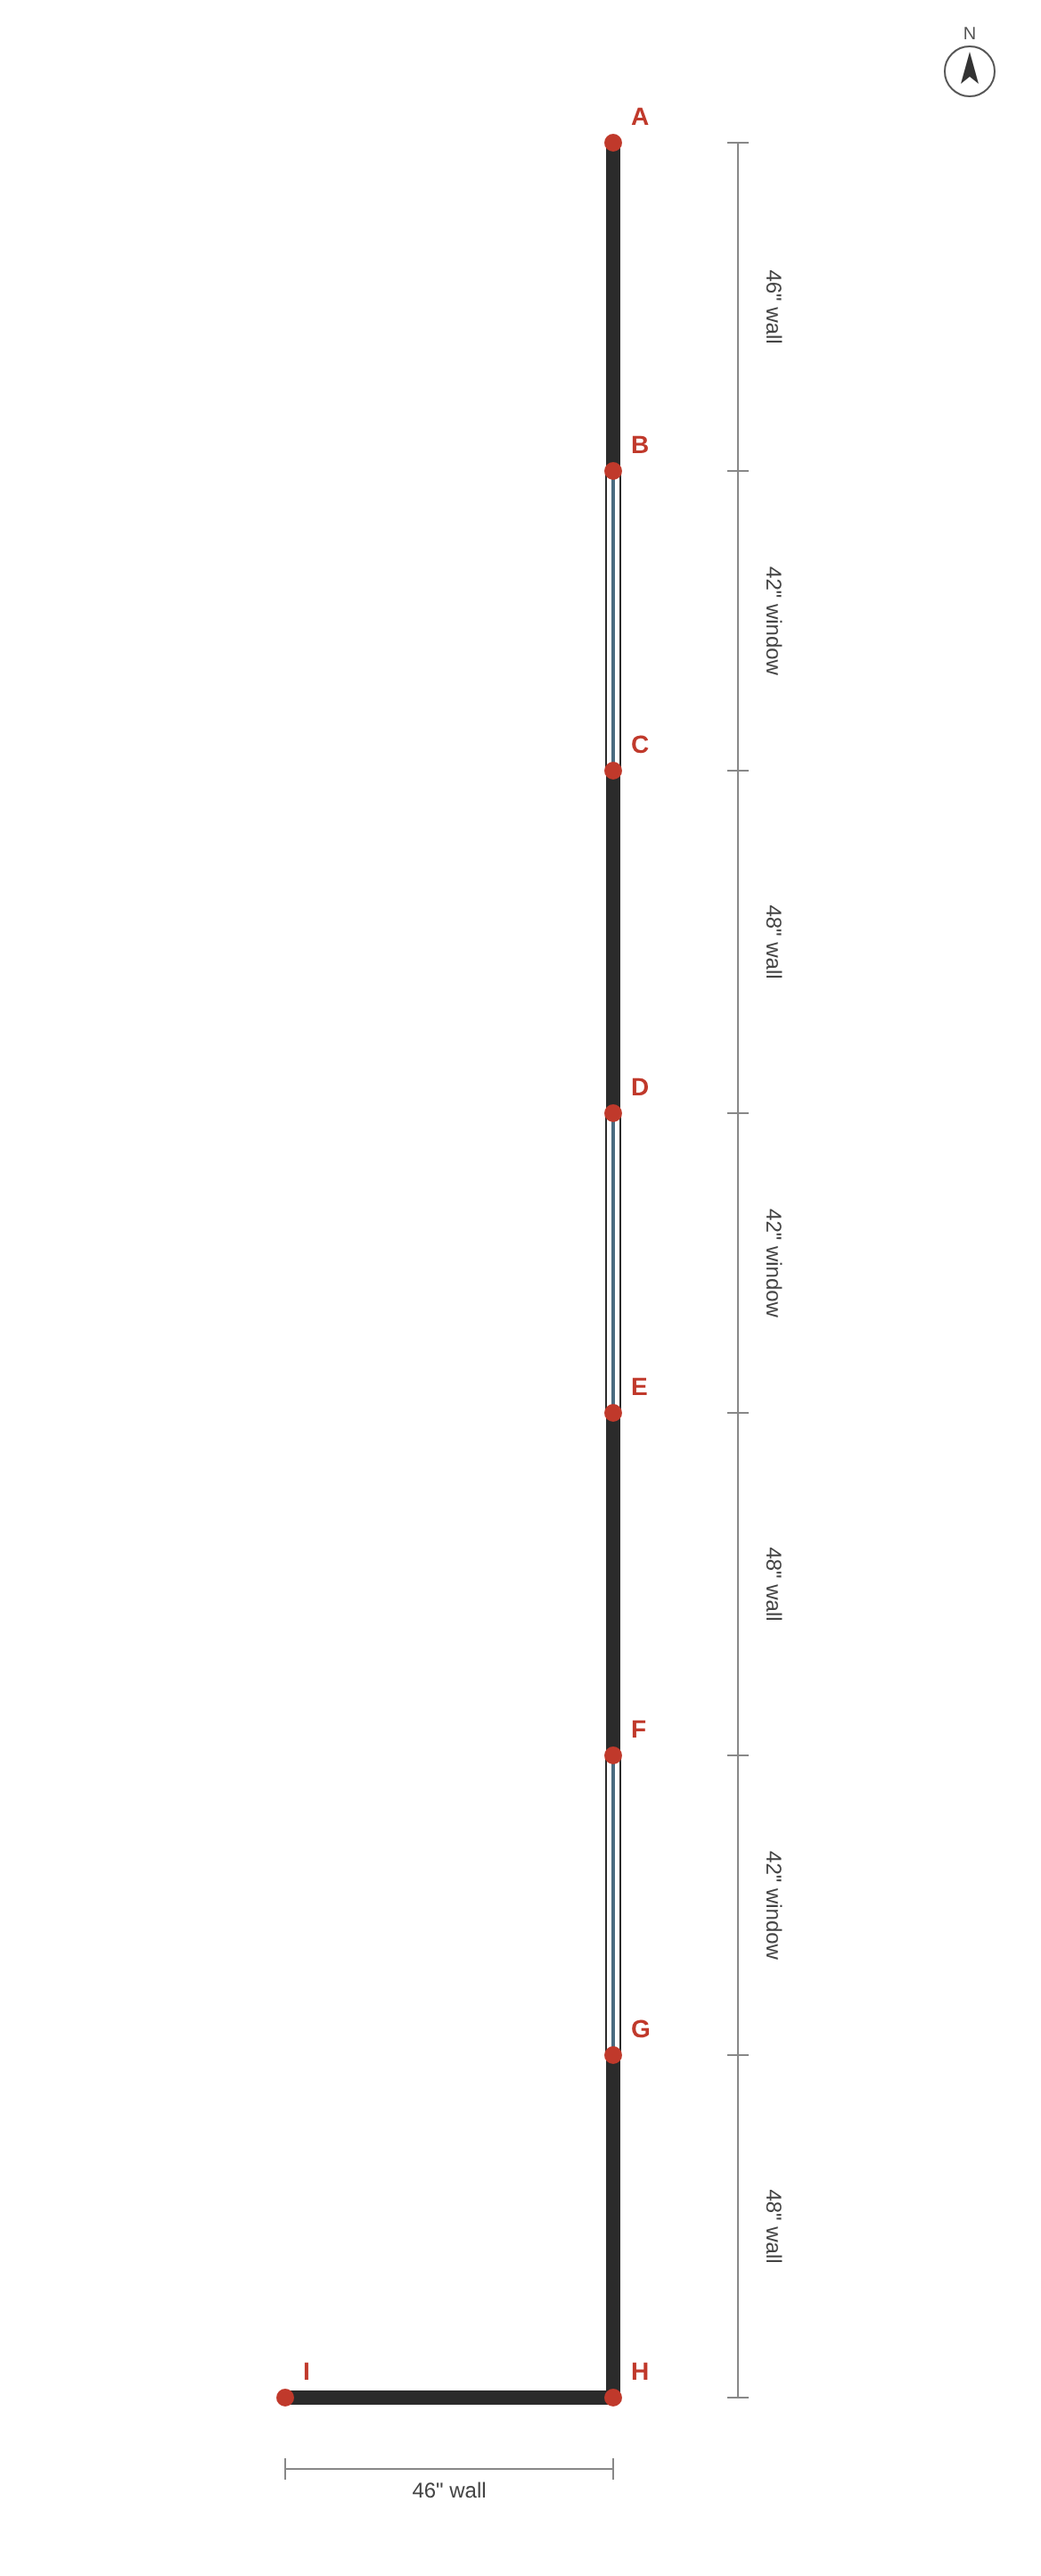
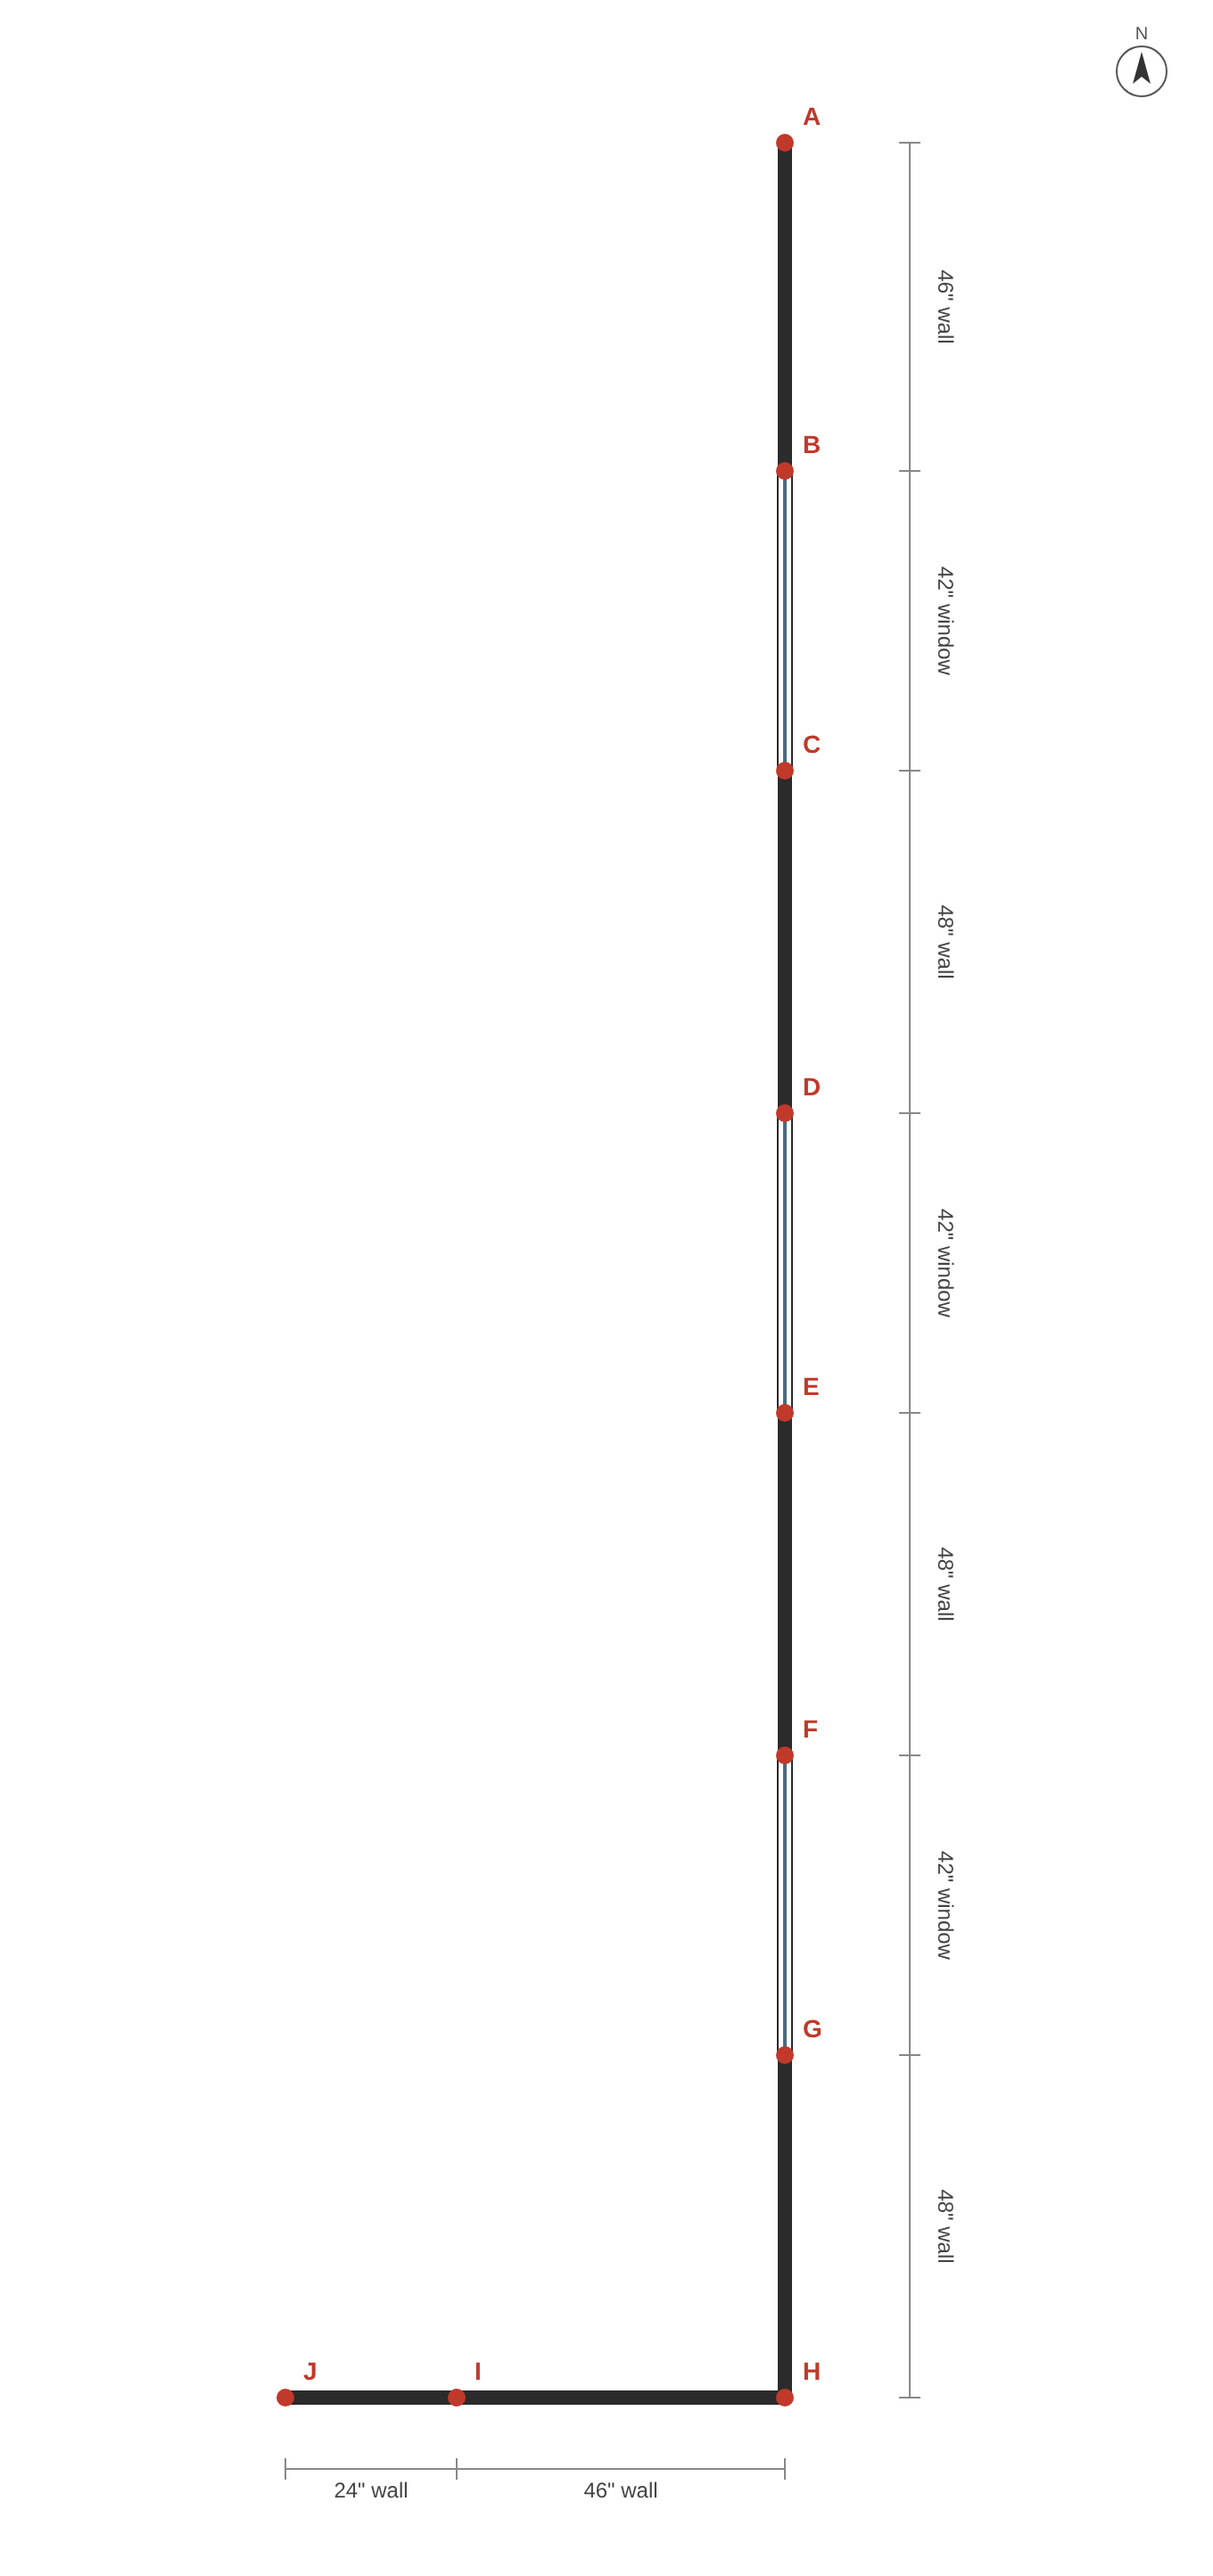
Floor plan: add wall I-J running west 24in
Claude-Session: https://claude.ai/code/session_01N1gJVqnW36KpNULQpj6QJQ

diff --git a/floorplans/build_floorplan.py b/floorplans/build_floorplan.py
@@ -16,6 +16,7 @@ SEGMENTS = [
     ("S", 42, "window", "G"),
     ("S", 48, "wall", "H"),
     ("W", 46, "wall", "I"),
+    ("W", 24, "wall", "J"),
 ]
 
 MARGIN = 80
